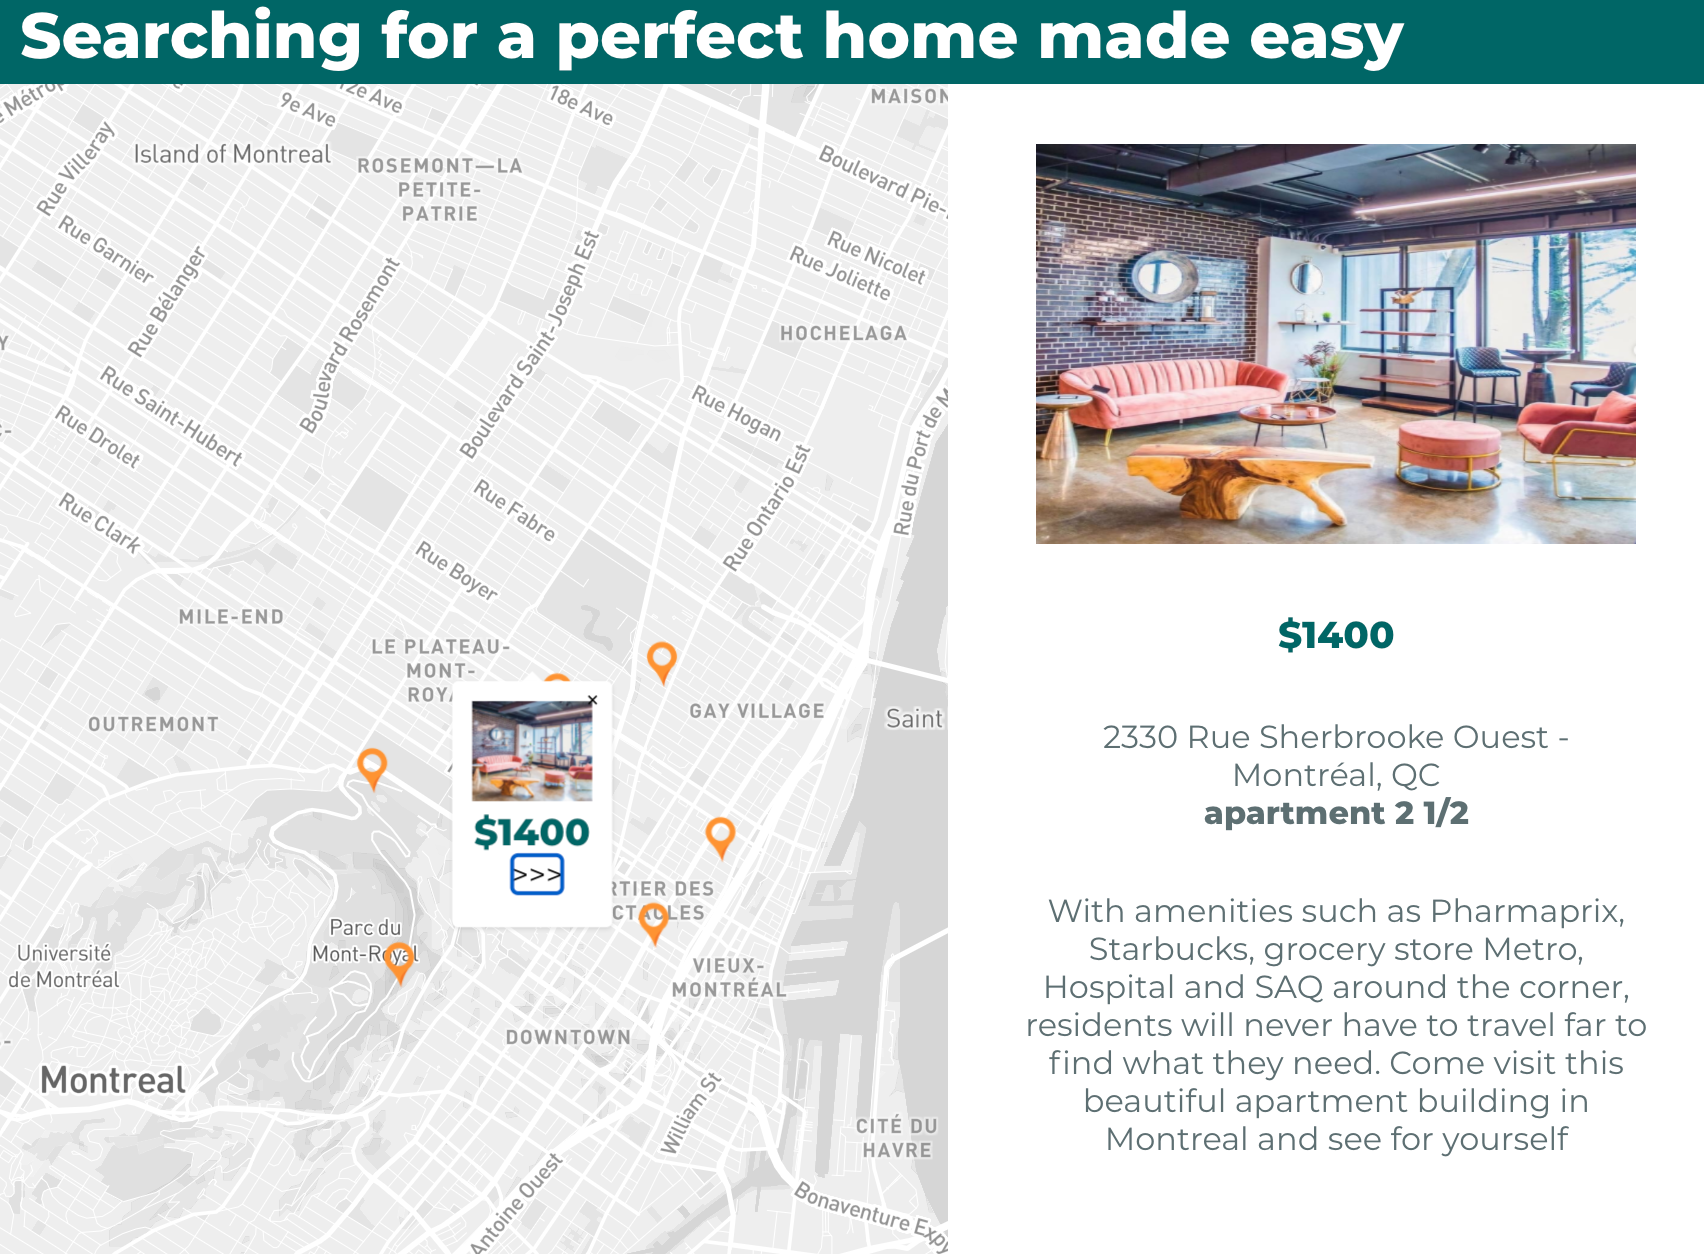
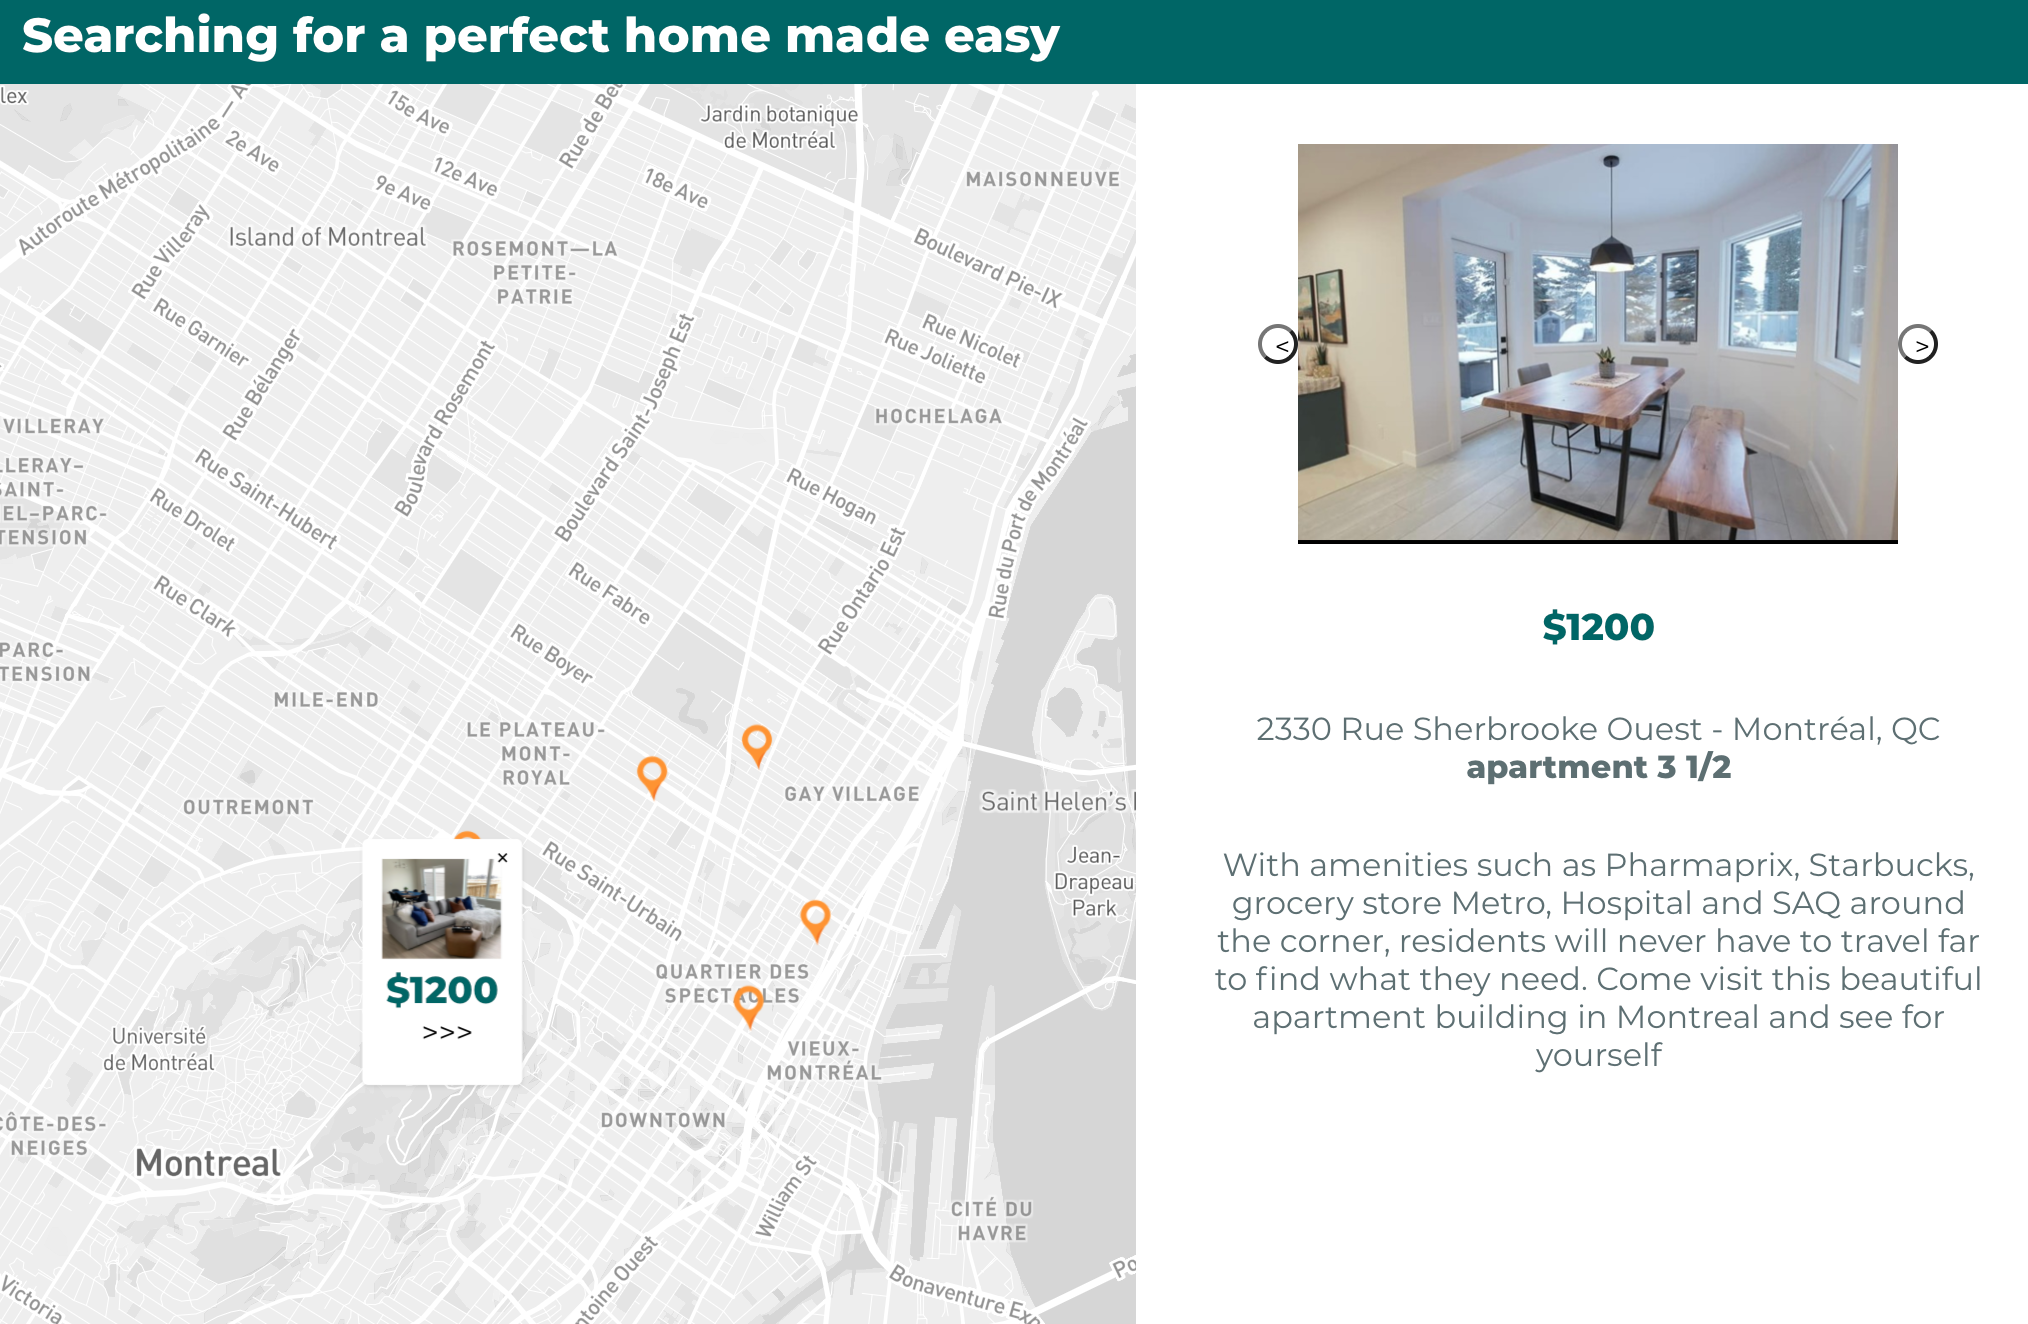
added Slider

diff --git a/src/components/Slider.js b/src/components/Slider.js
@@ -1,0 +1,49 @@
+import React, { useState } from "react";
+import styled from "styled-components";
+const images = [
+  "photo1.png",
+  "photo2.png",
+  "photo3.png",
+  "photo4.png",
+  "photo5.png",
+  "photo6.png"
+];
+
+const Slider = (props) => {
+  const firstIndex = images.indexOf(props.first);
+  const [index, setIndex] = useState(firstIndex); 
+  const slideRight = () => {
+    setIndex((index + 1) % images.length); 
+  };
+
+  const slideLeft = () => {
+    const nextIndex = index - 1;
+    if (nextIndex < 0) {
+      setIndex(images.length - 1); 
+    } else {
+      setIndex(nextIndex);
+    }
+  };
+  return (
+    <Wrapper>
+      <Button onClick={slideLeft}>{"<"}</Button>
+      <img src={images[index]} alt={index} height="200" width="300" />
+      <Button onClick={slideRight}>{">"}</Button>
+    </Wrapper>
+  );
+};
+
+const Wrapper = styled.div`
+  display: flex;
+  align-items: center;
+  justify-content: center;
+`;
+
+const Button = styled.button`
+  height: 20px;
+  width: 20px;
+  background: none;
+  border-radius: 50%;
+  cursor: pointer;
+`;
+export default Slider;

diff --git a/src/components/Sidebar.js b/src/components/Sidebar.js
@@ -2,6 +2,7 @@ import React from "react";
 import { useSelector } from "react-redux";
 import styled from "styled-components";
 import { getSelectedOffer } from "../reducers";
+import Slider from "./Slider";
 
 const Sidebar = (props) => {
   const selectedOffer = useSelector(getSelectedOffer);
@@ -11,7 +12,7 @@ const Sidebar = (props) => {
       <Head>{""} </Head>
       {selectedOffer ? (
         <Wrapper>
-          <img src={selectedOffer.img} alt="" height="200" width="300" />
+          <Slider first={selectedOffer.img} />
           <h3> {selectedOffer.rent}</h3>
           <p>2330 Rue Sherbrooke Ouest - Montréal, QC </p>
           <h4>{selectedOffer.type} </h4>
